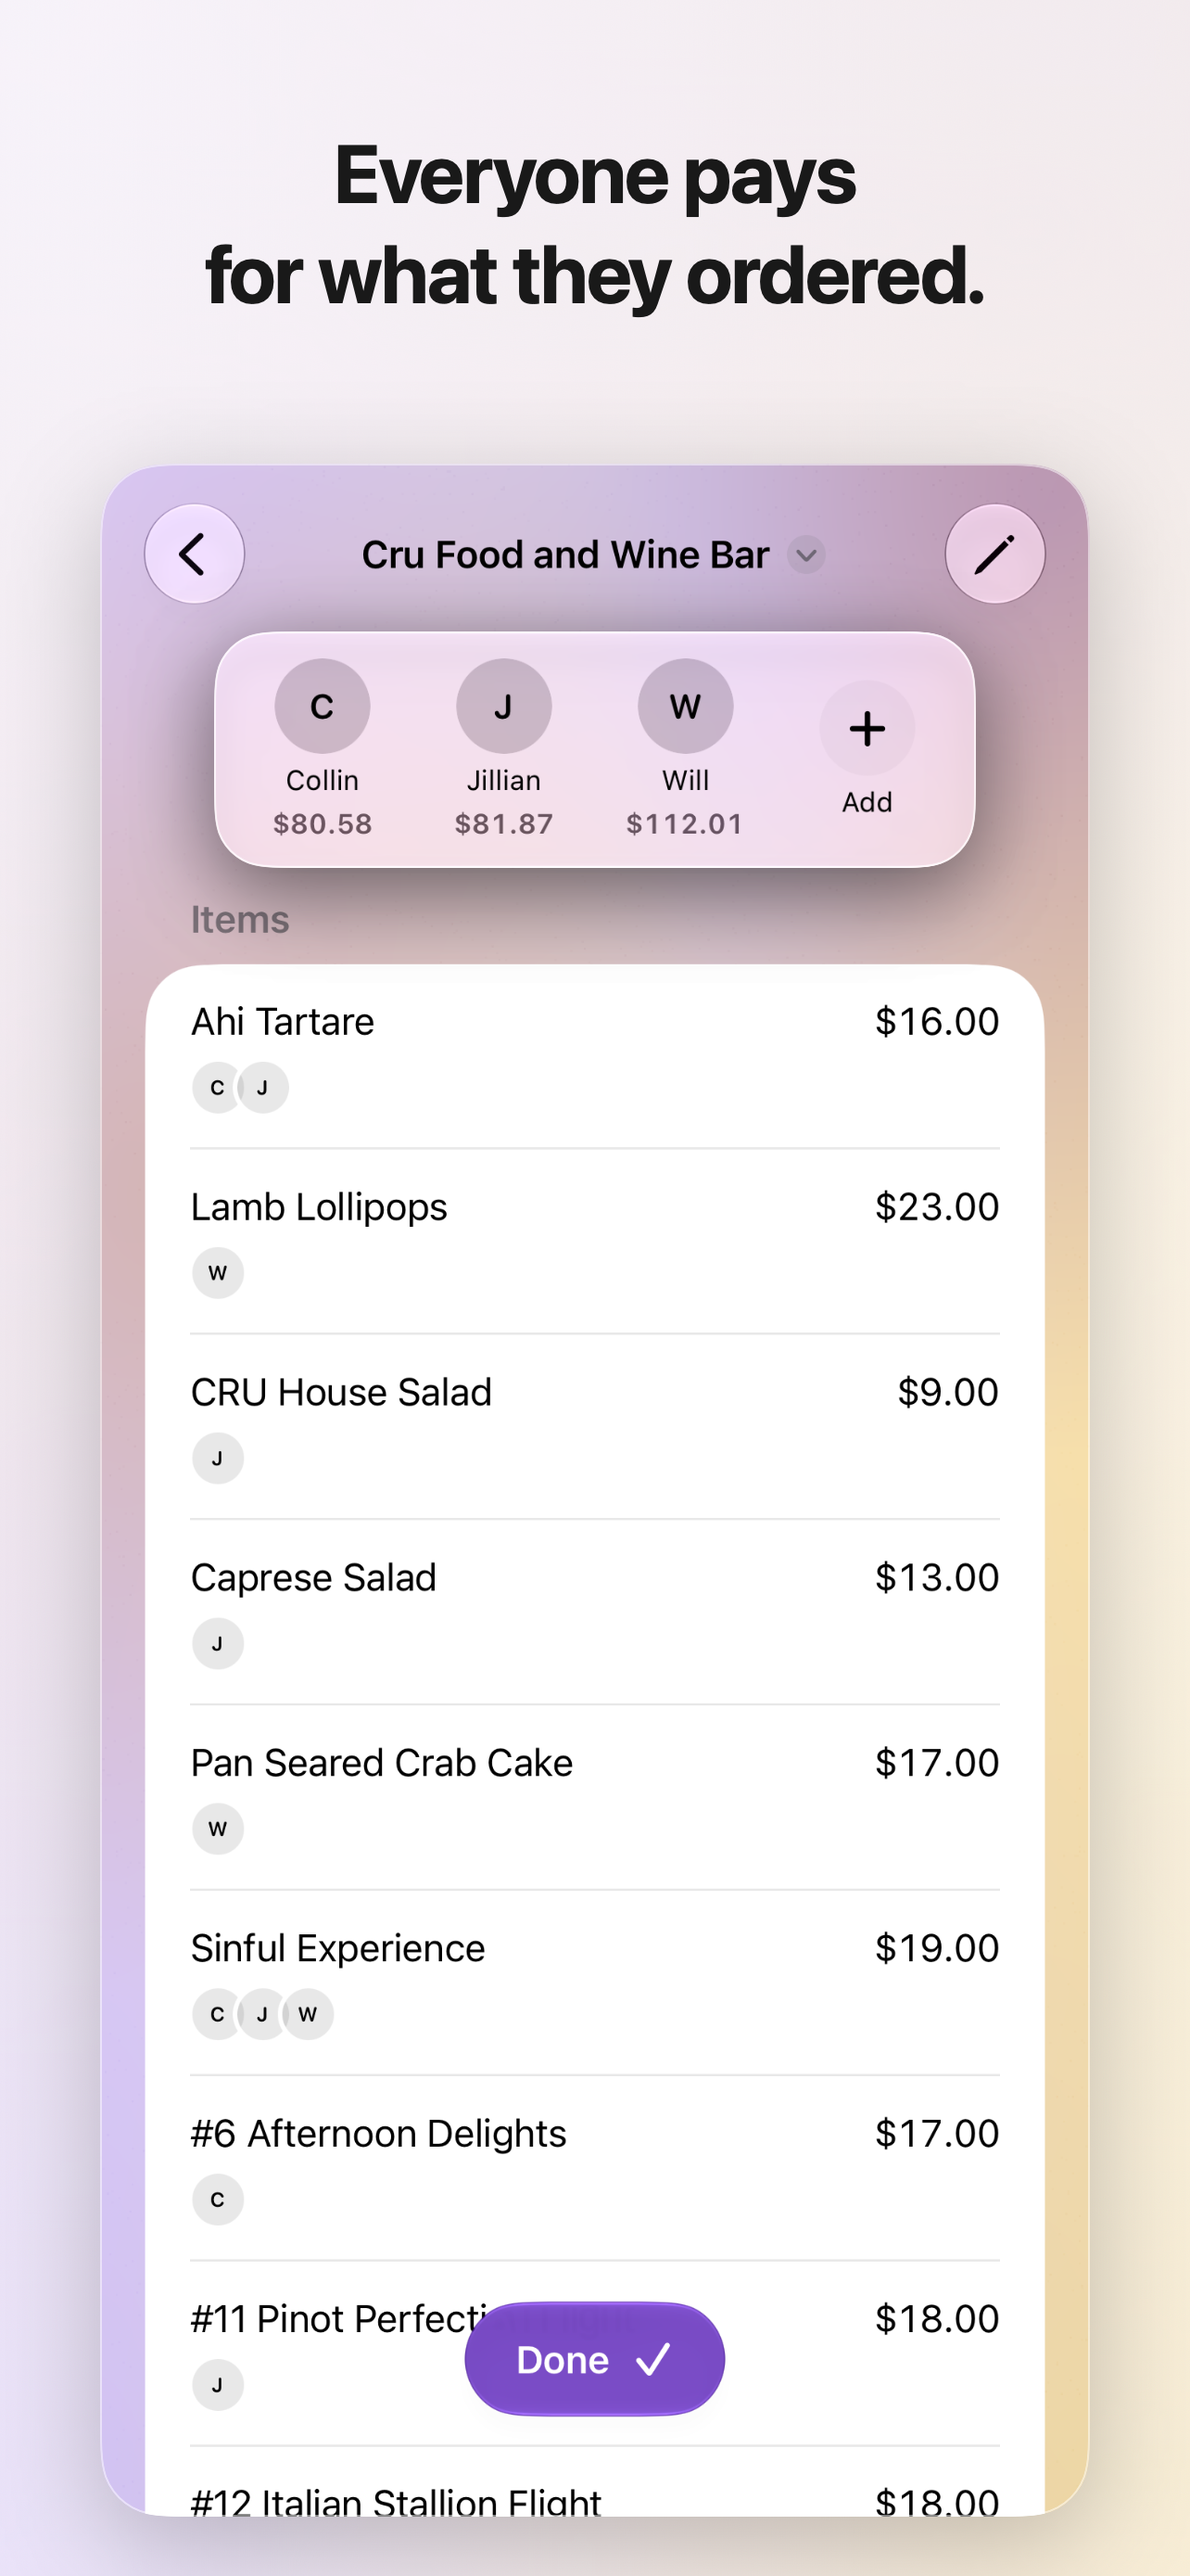
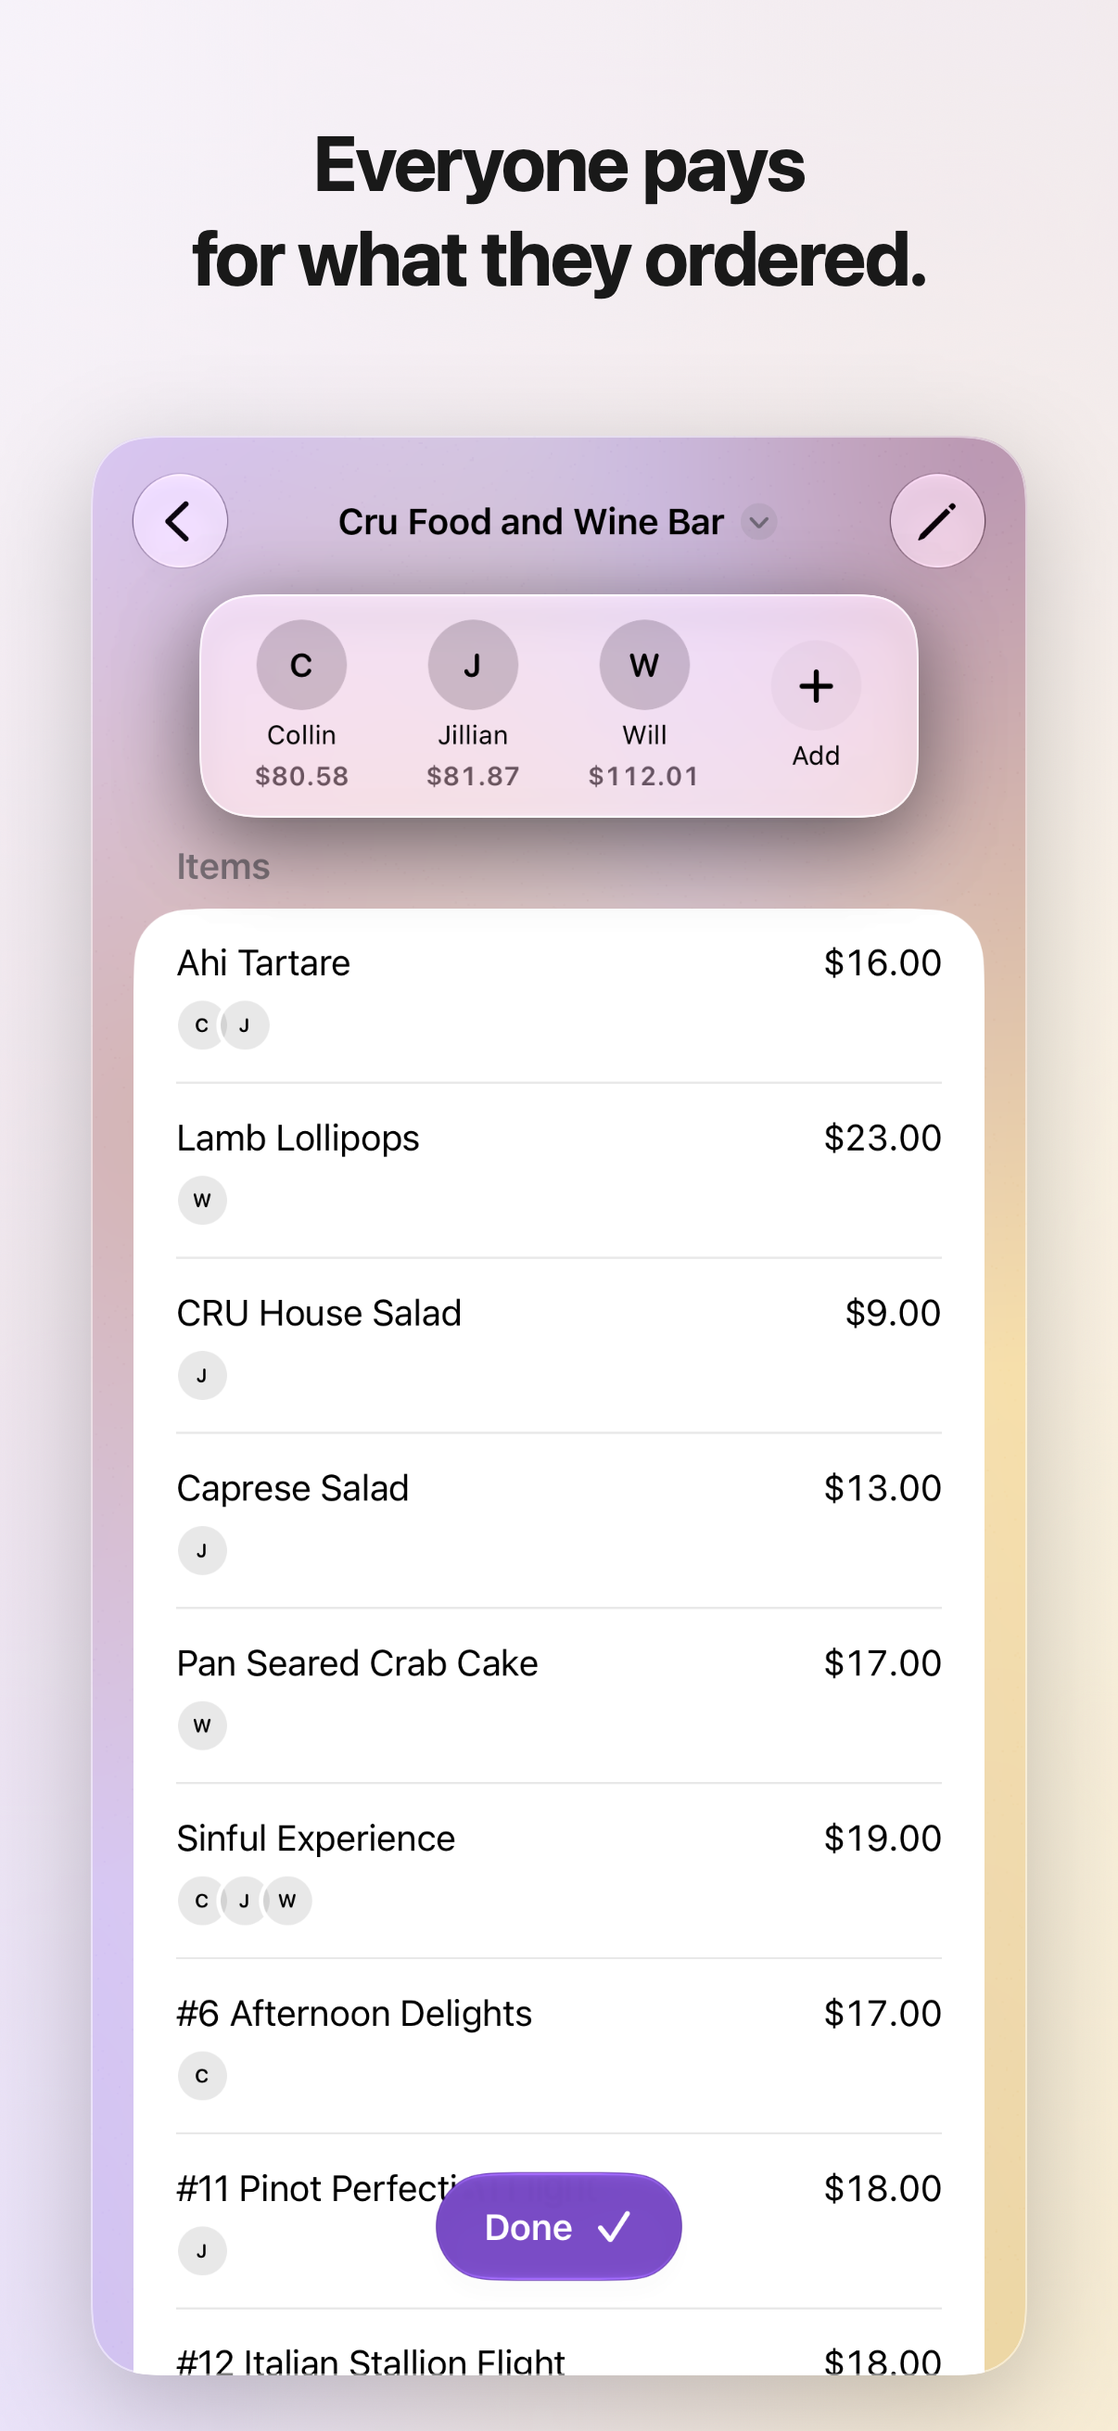
Update images

diff --git a/Tools/Screenshots/Composer/StoreFrame.swift b/Tools/Screenshots/Composer/StoreFrame.swift
@@ -8,7 +8,7 @@ enum StoreAppearance: String, CaseIterable {
 /// One App Store screenshot: a softened photo, a headline, the captured screen as a floating
 /// card, and one element of that screen lifted above it.
 struct StoreFrame: View {
-  static let size = CGSize(width: 1284, height: 2778)
+  static let size = CGSize(width: 1206, height: 2622)
 
   let shot: StoreShot
   let capture: Capture
@@ -17,10 +17,10 @@ struct StoreFrame: View {
   let swatches: (leading: [Swatch], trailing: [Swatch])
   let appearance: StoreAppearance
 
-  private let maxCardWidth: CGFloat = 1110
-  private let cardTop: CGFloat = 500
-  private let cardBottomMargin: CGFloat = 64
-  private let cardCornerRadius: CGFloat = 68
+  private let maxCardWidth: CGFloat = 1042
+  private let cardTop: CGFloat = 470
+  private let cardBottomMargin: CGFloat = 60
+  private let cardCornerRadius: CGFloat = 64
   private let liftScale: CGFloat = 1.12
 
   var body: some View {
@@ -90,15 +90,15 @@ struct StoreFrame: View {
 
   private var headline: some View {
     Text(shot.headline)
-      .font(.system(size: 88, weight: .bold))
+      .font(.system(size: 83, weight: .bold))
       .kerning(-1.5)
       .lineSpacing(4)
       .multilineTextAlignment(.center)
       .foregroundStyle(
         appearance == .dark ? Color.white : Color(white: 0.1)
       )
-      .frame(width: Self.size.width, height: cardTop - 60)
-      .offset(y: 20)
+      .frame(width: Self.size.width, height: cardTop - 56)
+      .offset(y: 19)
   }
 
   @ViewBuilder
